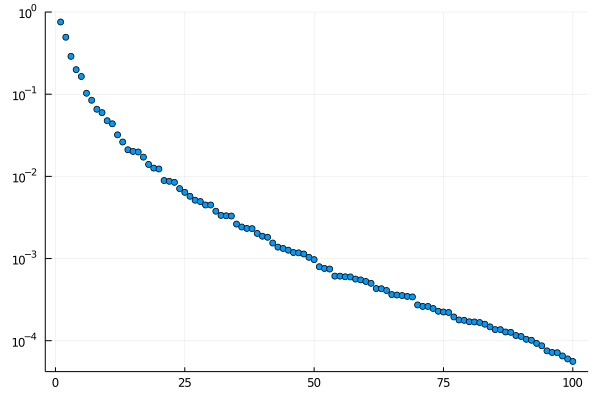
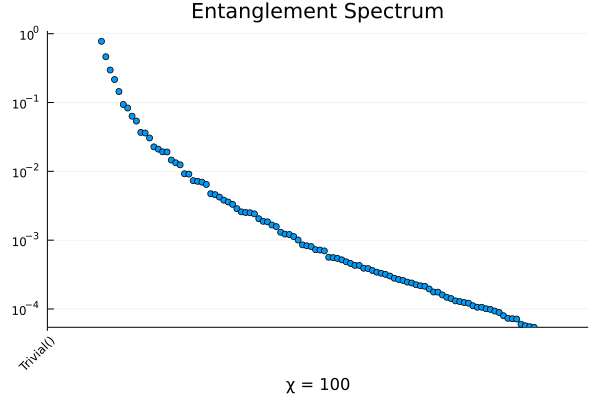
using new plots in xxz tutorial

diff --git a/docs/src/tut/xxz_groundstate.md b/docs/src/tut/xxz_groundstate.md
@@ -1,9 +1,9 @@
 # Analyzing the xxz model
 
-In this file we will give step by step instructions to analyze the spin 1/2 xxz model.
+In this file we will give step by step instructions on how to analyze the spin 1/2 xxz model.
 The necessary packages to follow this tutorial are :
 ```julia
-using MPSKit,MPSKitModels,TensorKit,Plots
+using MPSKit, MPSKitModels, TensorKit, Plots
 ```
 
 ## Failure
@@ -39,27 +39,12 @@ Maybe we can do better using another algorithm, such as gradient descent.
 Convergence is quite slow and even fails after sufficiently many iterations. To understand why, we can look at the transfer matrix spectrum.
 
 ```julia
-    spectrum = transfer_spectrum(groundstate);
-    plot(spectrum,seriestype=:scatter,legend=false);
+    transferplot(groundstate,groundstate)
 ```
 
 ![](xxz_transfer_spectrum.png)
 
-We can clearly see multiple eigenvalues close to the unit circle. Our state is close to being non-injective, and represents the sum of multiple injective states. This is numerically very problematic, but also indicates that we used an incorrect ansatz to approximate the groundstate. A closer look at the spectrum reveals a double degeneracy of the leading eigenvalue :
-
-```julia
-    @show abs.(spectrum)[1:5]
-
-    5-element Array{Float64,1}:
-     1.0000000000000178
-     0.9998529451569024
-     0.9809868986275074
-     0.9809868986275053
-     0.9809764849211271
-
-```
-
-We should therefore retry with a 2site unit cell.
+We can clearly see multiple eigenvalues close to the unit circle. Our state is close to being non-injective, and represents the sum of multiple injective states. This is numerically very problematic, but also indicates that we used an incorrect ansatz to approximate the groundstate. We should retry with a larger unit cell.
 
 ## Success
 
@@ -82,13 +67,9 @@ Running vumps
 we get convergence, but it takes an enormous amount of iterations. The reason behind this becomes more obvious at higher bond dimensions
 
 ```julia
-A = TensorMap(rand,ComplexF64,ℂ^100*ℂ^2,ℂ^100);
-B = TensorMap(rand,ComplexF64,ℂ^100*ℂ^2,ℂ^100);
-state = InfiniteMPS([A,B]);
-(groundstate,cache,delta) = find_groundstate(state,ham,Vumps(maxiter=100,tol_galerkin=1e-12));
+(groundstate,cache,delta) = find_groundstate(state,ham,Idmrg2(trscheme=truncdim(100),maxiter=100,tol_galerkin=1e-12));
 
-spectrum = entanglement_spectrum(groundstate);(groundstate);
-plot(abs.(spectrum),seriestype=:scatter,legend=false,yscale=:log10)
+entanglementplot(groundstate)
 ```
 
 ![](xxz_entanglement_spectrum.png)
